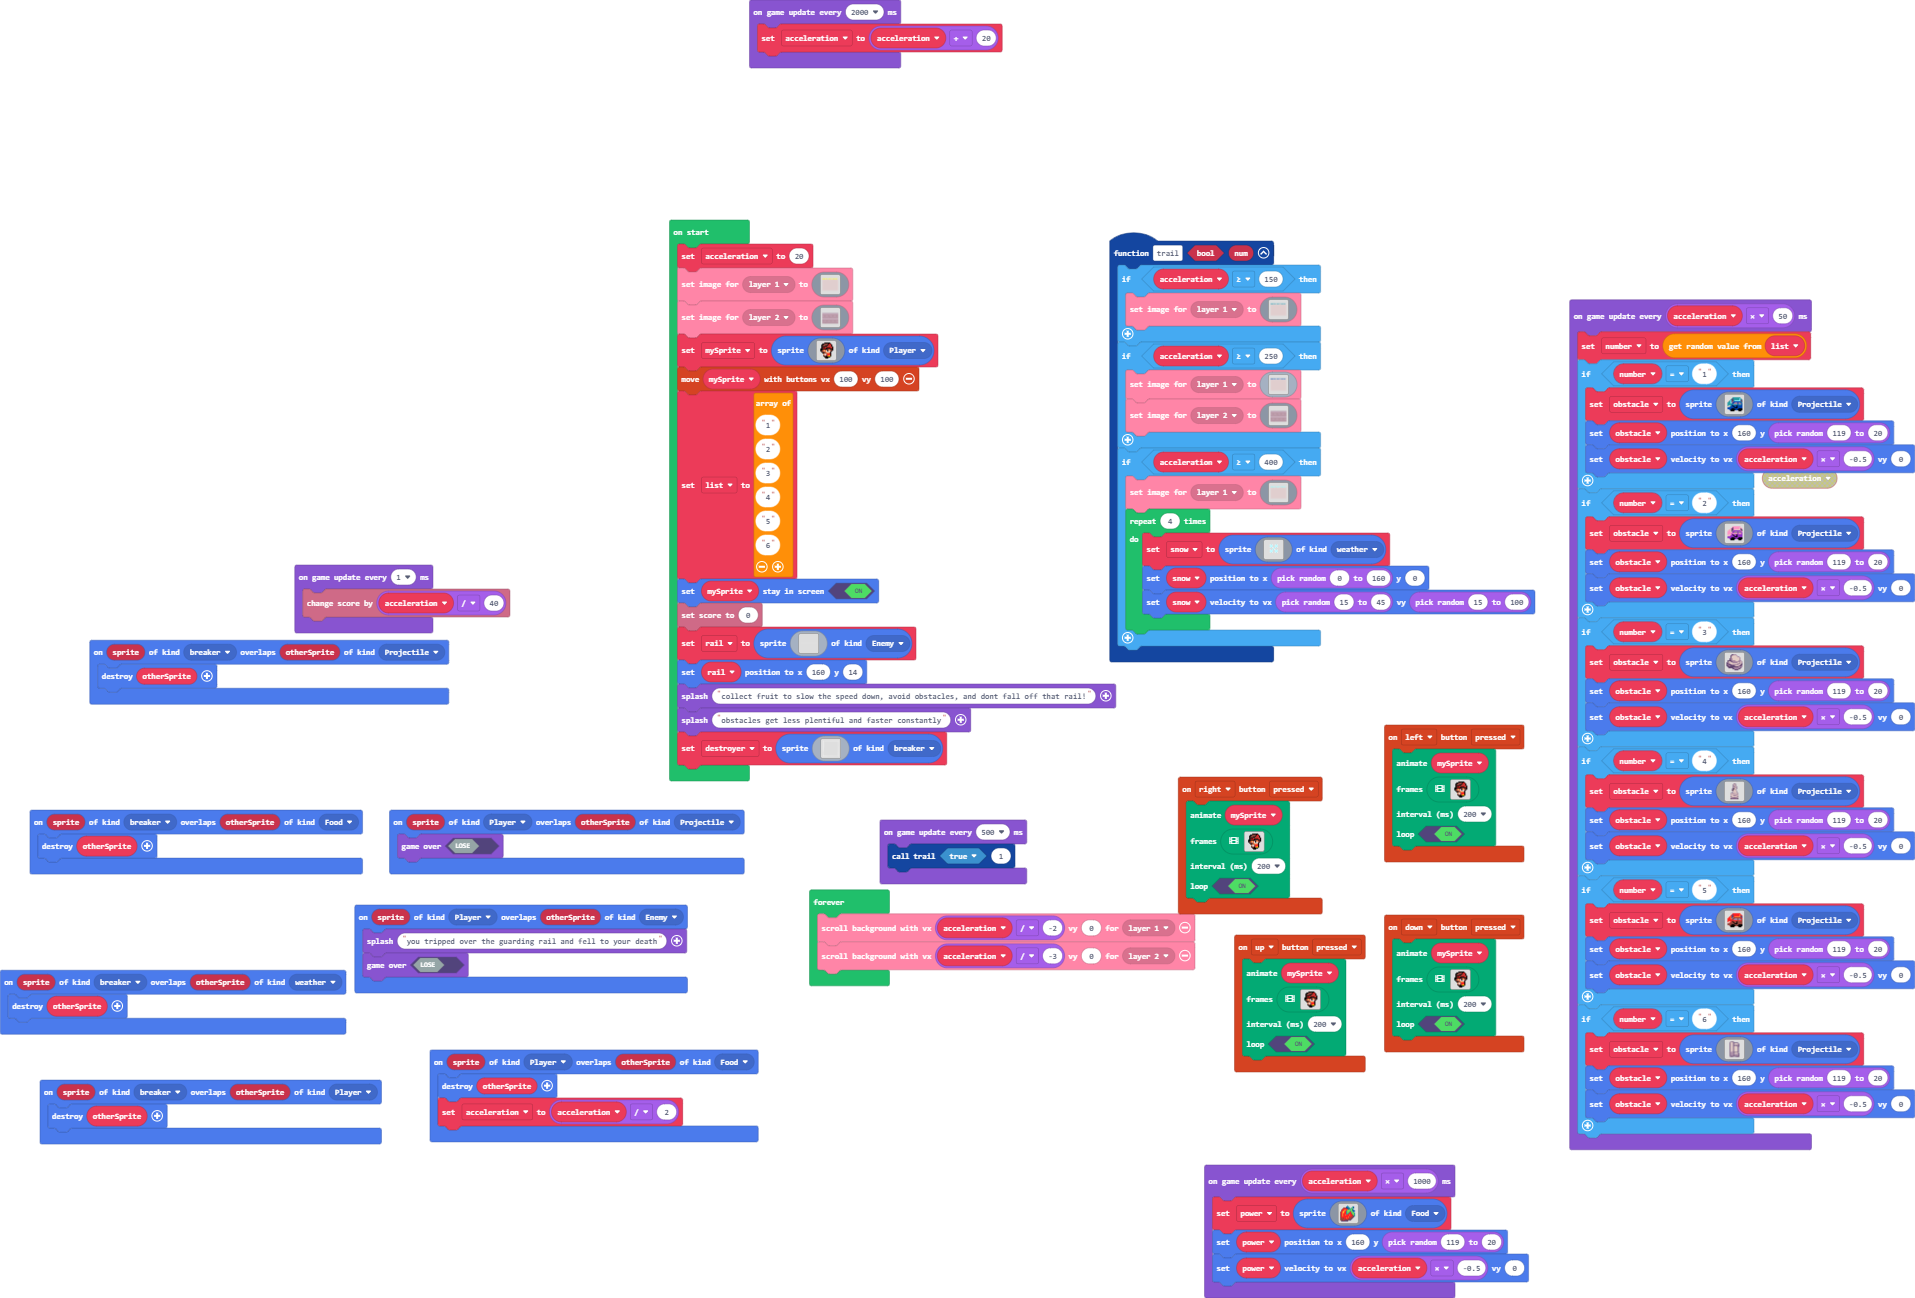
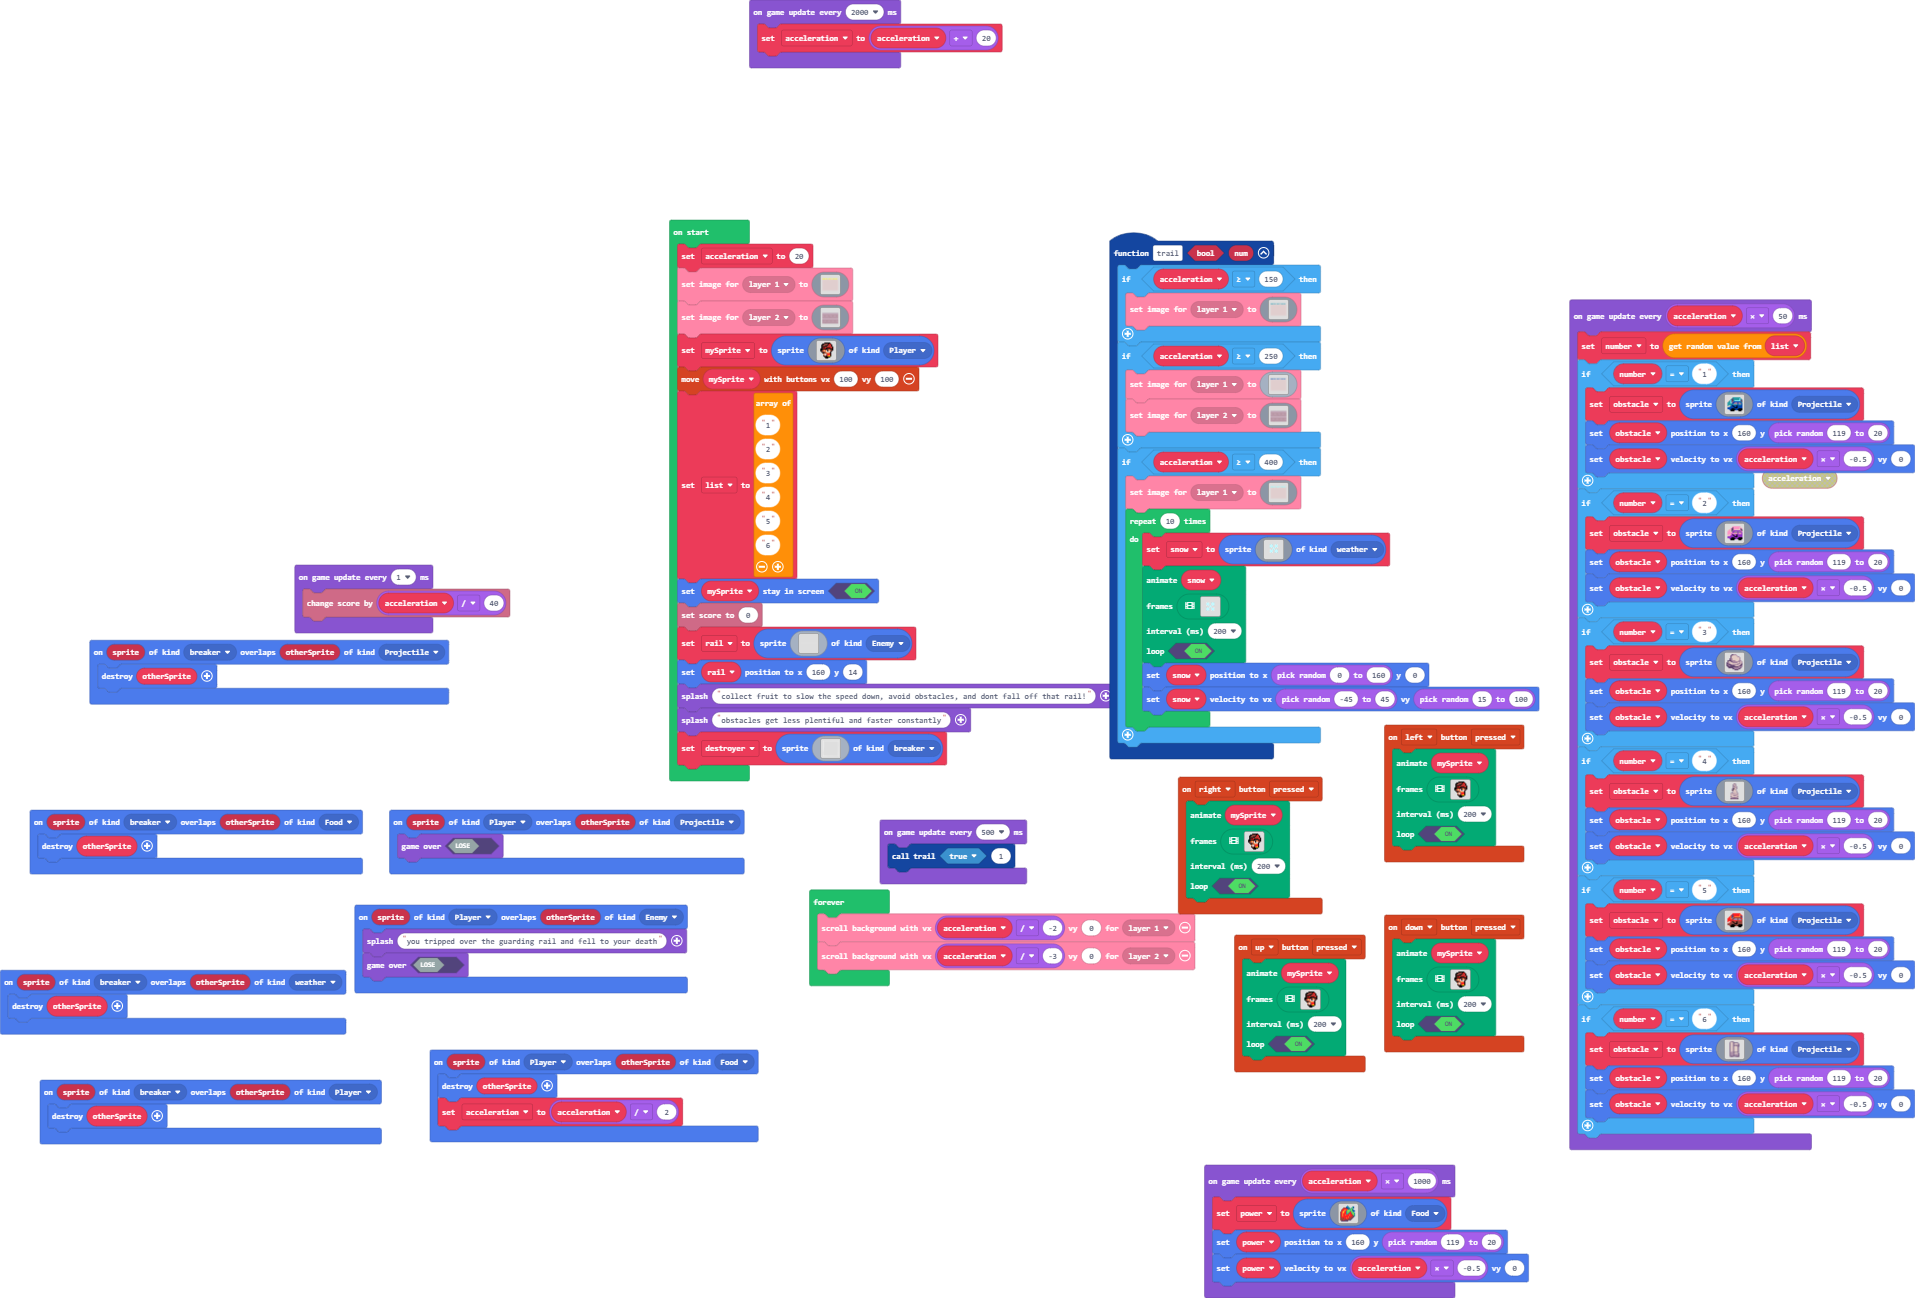
Update main.blocks, main.ts, images.g.jres, images.g.ts

Changed region(s): [[0.5546, 0.4314, 0.801, 0.5855]]

diff --git a/images.g.ts b/images.g.ts
@@ -8,14 +8,14 @@ namespace myImages {
 . . . . . . . . . . . . . . . . 
 . . . . . . . . . . . . . . . . 
 . . . . . . . . . . . . . . . . 
-. . . . 1 9 1 . . 1 9 1 . . . . 
-. . . . 9 1 9 . . 9 1 9 . . . . 
-. . . . 1 9 1 . . 1 9 1 . . . . 
+. . . . 9 1 9 . . 1 9 1 . . . . 
+. . . . 1 9 1 . . 9 1 9 . . . . 
+. . . . 9 1 9 . . 1 9 1 . . . . 
 . . . . . . . 1 9 . . . . . . . 
 . . . . . . . 9 1 . . . . . . . 
-. . . . 1 9 1 . . 1 9 1 . . . . 
-. . . . 9 1 9 . . 9 1 9 . . . . 
-. . . . 1 9 1 . . 1 9 1 . . . . 
+. . . . 1 9 1 . . 9 1 9 . . . . 
+. . . . 9 1 9 . . 1 9 1 . . . . 
+. . . . 1 9 1 . . 9 1 9 . . . . 
 . . . . . . . . . . . . . . . . 
 . . . . . . . . . . . . . . . . 
 . . . . . . . . . . . . . . . . 
@@ -28,7 +28,42 @@ namespace myImages {
 
     helpers._registerFactory("animation", function(name: string) {
         switch(helpers.stringTrim(name)) {
-
+            case "snowy":
+            case "anim1":return [img`
+. . . . . . . . . . . . . . . . 
+. . . . . . . . . . . . . . . . 
+. . . . . . . . . . . . . . . . 
+. . . . . . . . . . . . . . . . 
+. . . . 1 9 1 . . 9 1 9 . . . . 
+. . . . 9 1 9 . . 1 9 1 . . . . 
+. . . . 1 9 1 . . 9 1 9 . . . . 
+. . . . . . . 9 1 . . . . . . . 
+. . . . . . . 1 9 . . . . . . . 
+. . . . 9 1 9 . . 1 9 1 . . . . 
+. . . . 1 9 1 . . 9 1 9 . . . . 
+. . . . 9 1 9 . . 1 9 1 . . . . 
+. . . . . . . . . . . . . . . . 
+. . . . . . . . . . . . . . . . 
+. . . . . . . . . . . . . . . . 
+. . . . . . . . . . . . . . . . 
+`, img`
+. . . . . . . . . . . . . . . . 
+. . . . . . . . . . . . . . . . 
+. . . . . . . . . . . . . . . . 
+. . . . . . . . . . . . . . . . 
+. . . . 9 1 9 . . 1 9 1 . . . . 
+. . . . 1 9 1 . . 9 1 9 . . . . 
+. . . . 9 1 9 . . 1 9 1 . . . . 
+. . . . . . . 1 9 . . . . . . . 
+. . . . . . . 9 1 . . . . . . . 
+. . . . 1 9 1 . . 9 1 9 . . . . 
+. . . . 9 1 9 . . 1 9 1 . . . . 
+. . . . 1 9 1 . . 9 1 9 . . . . 
+. . . . . . . . . . . . . . . . 
+. . . . . . . . . . . . . . . . 
+. . . . . . . . . . . . . . . . 
+. . . . . . . . . . . . . . . . 
+`];
         }
         return null;
     })

diff --git a/main.ts b/main.ts
@@ -819,10 +819,16 @@ function trail (bool: boolean, num: number) {
             dddddddddddddddddddddddddddddddddddddddddddddddddddddddddddddddddddddddddddddddddddddddddddddddddddddddddddddddddddddddddddddddddddddddddddddddddddddddddddddddd
             dddddddddddddddddddddddddddddddddddddddddddddddddddddddddddddddddddddddddddddddddddddddddddddddddddddddddddddddddddddddddddddddddddddddddddddddddddddddddddddddd
             `)
-        for (let index = 0; index < 4; index++) {
+        for (let index = 0; index < 10; index++) {
             snow = sprites.create(assets.image`snow`, SpriteKind.weather)
+            animation.runImageAnimation(
+            snow,
+            assets.animation`snowy`,
+            200,
+            true
+            )
             snow.setPosition(randint(0, 160), 0)
-            snow.setVelocity(randint(15, 45), randint(15, 100))
+            snow.setVelocity(randint(-45, 45), randint(15, 100))
         }
     }
 }
